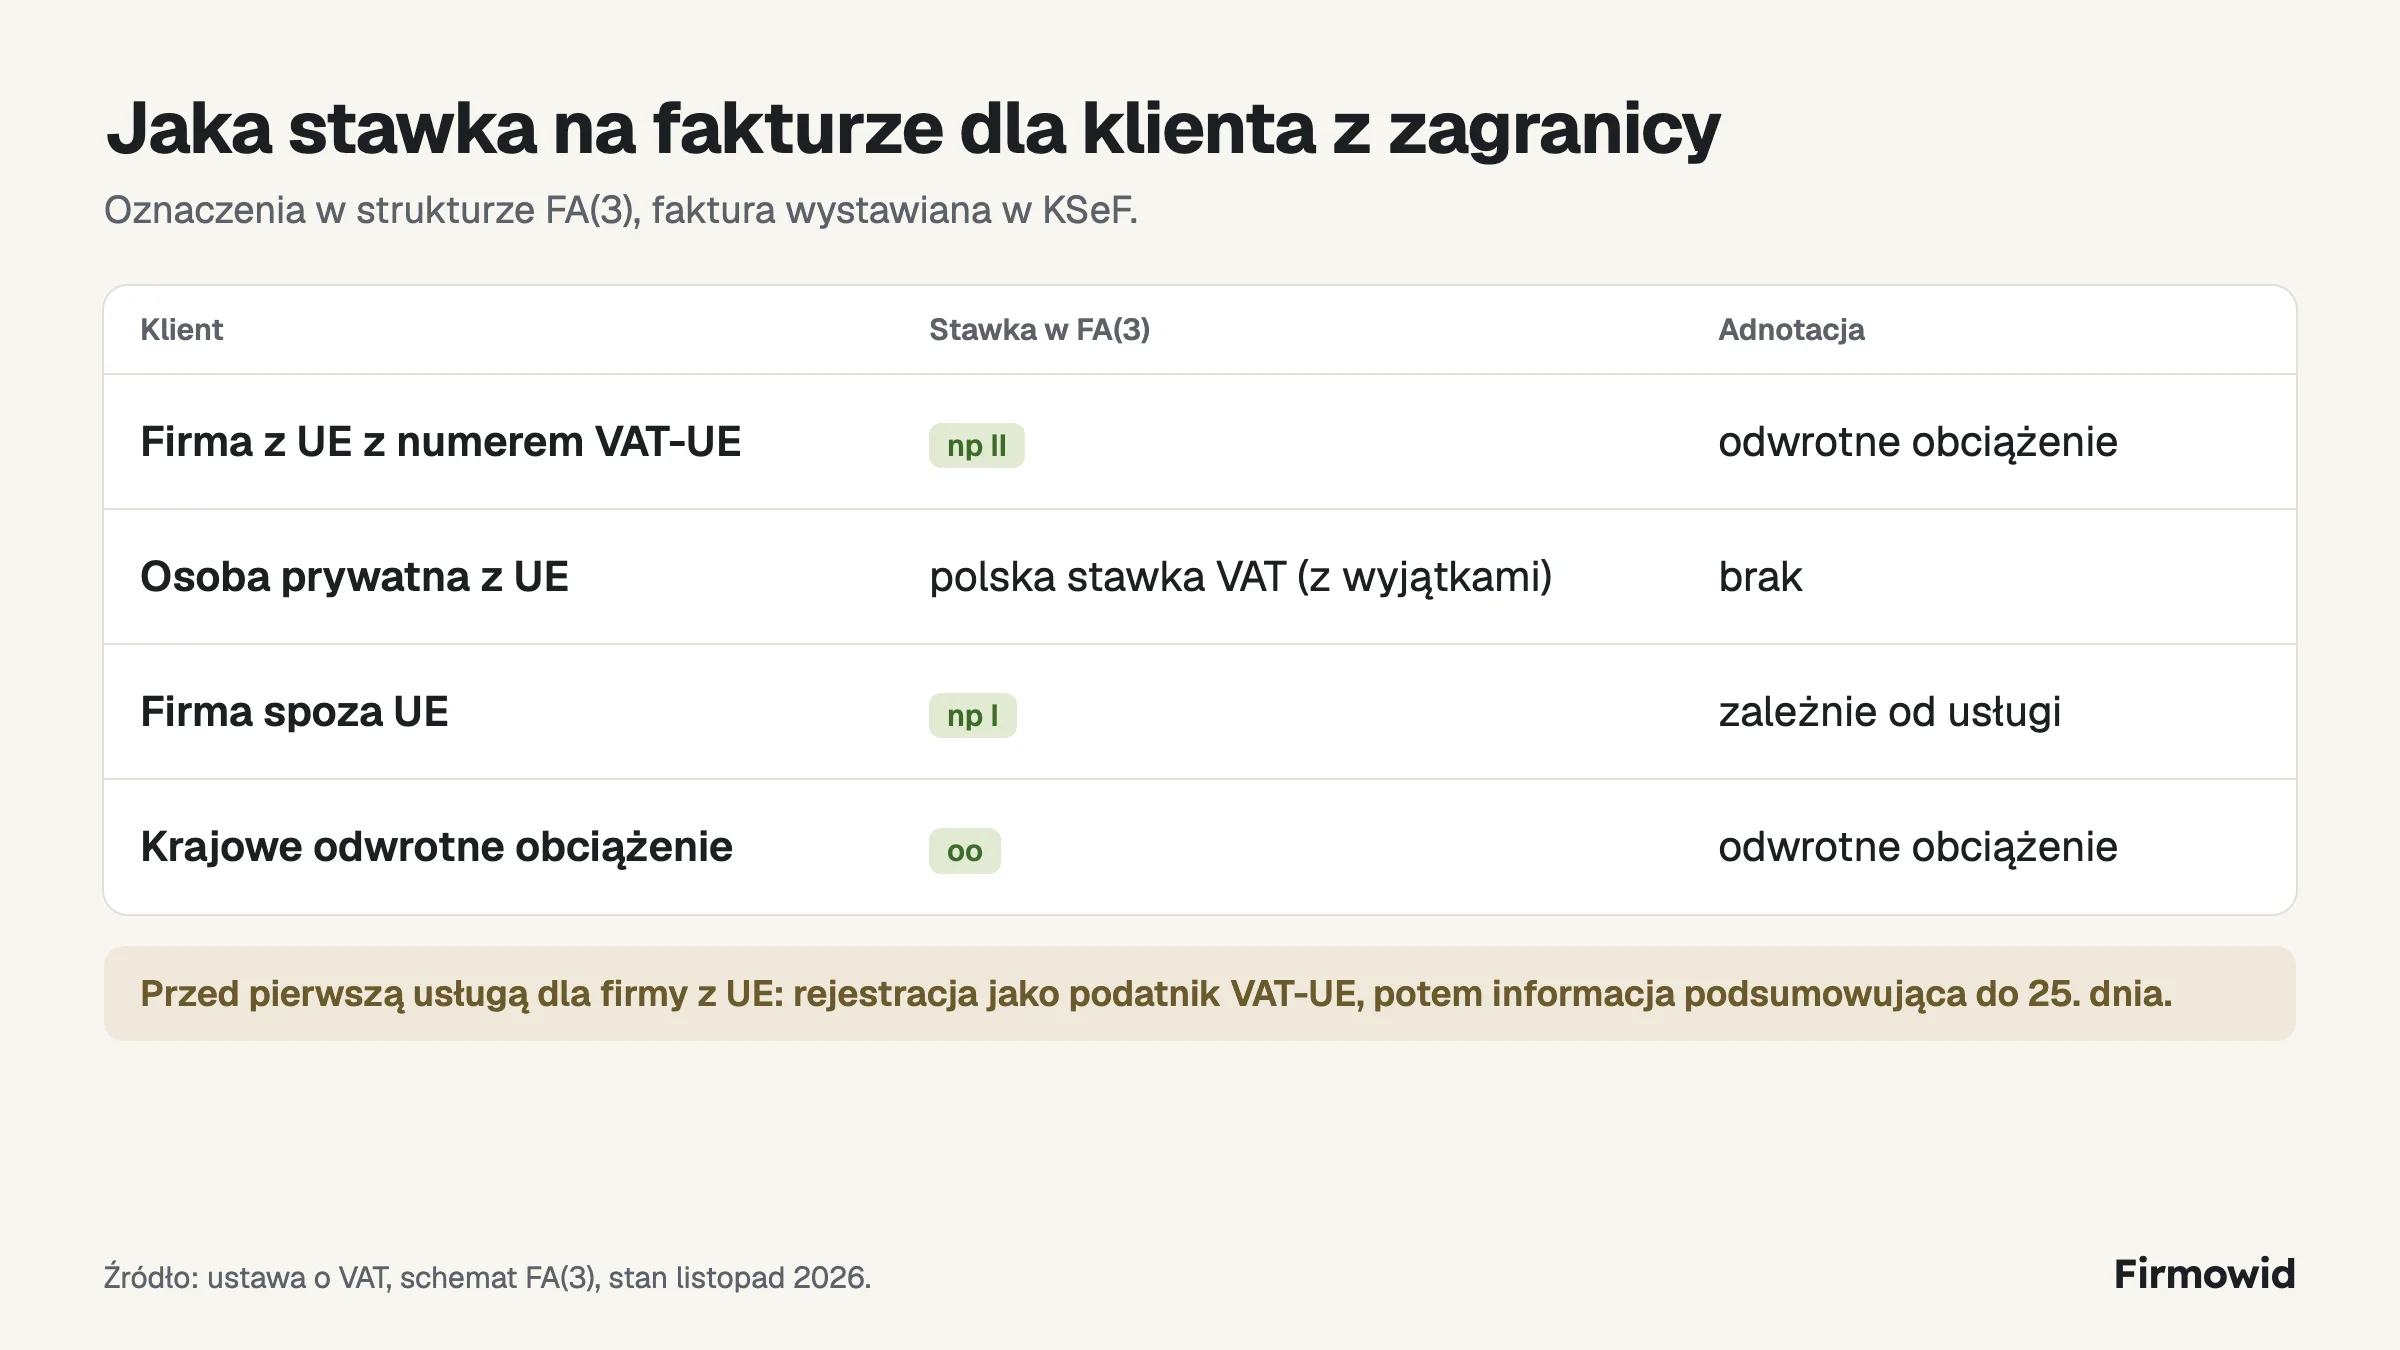
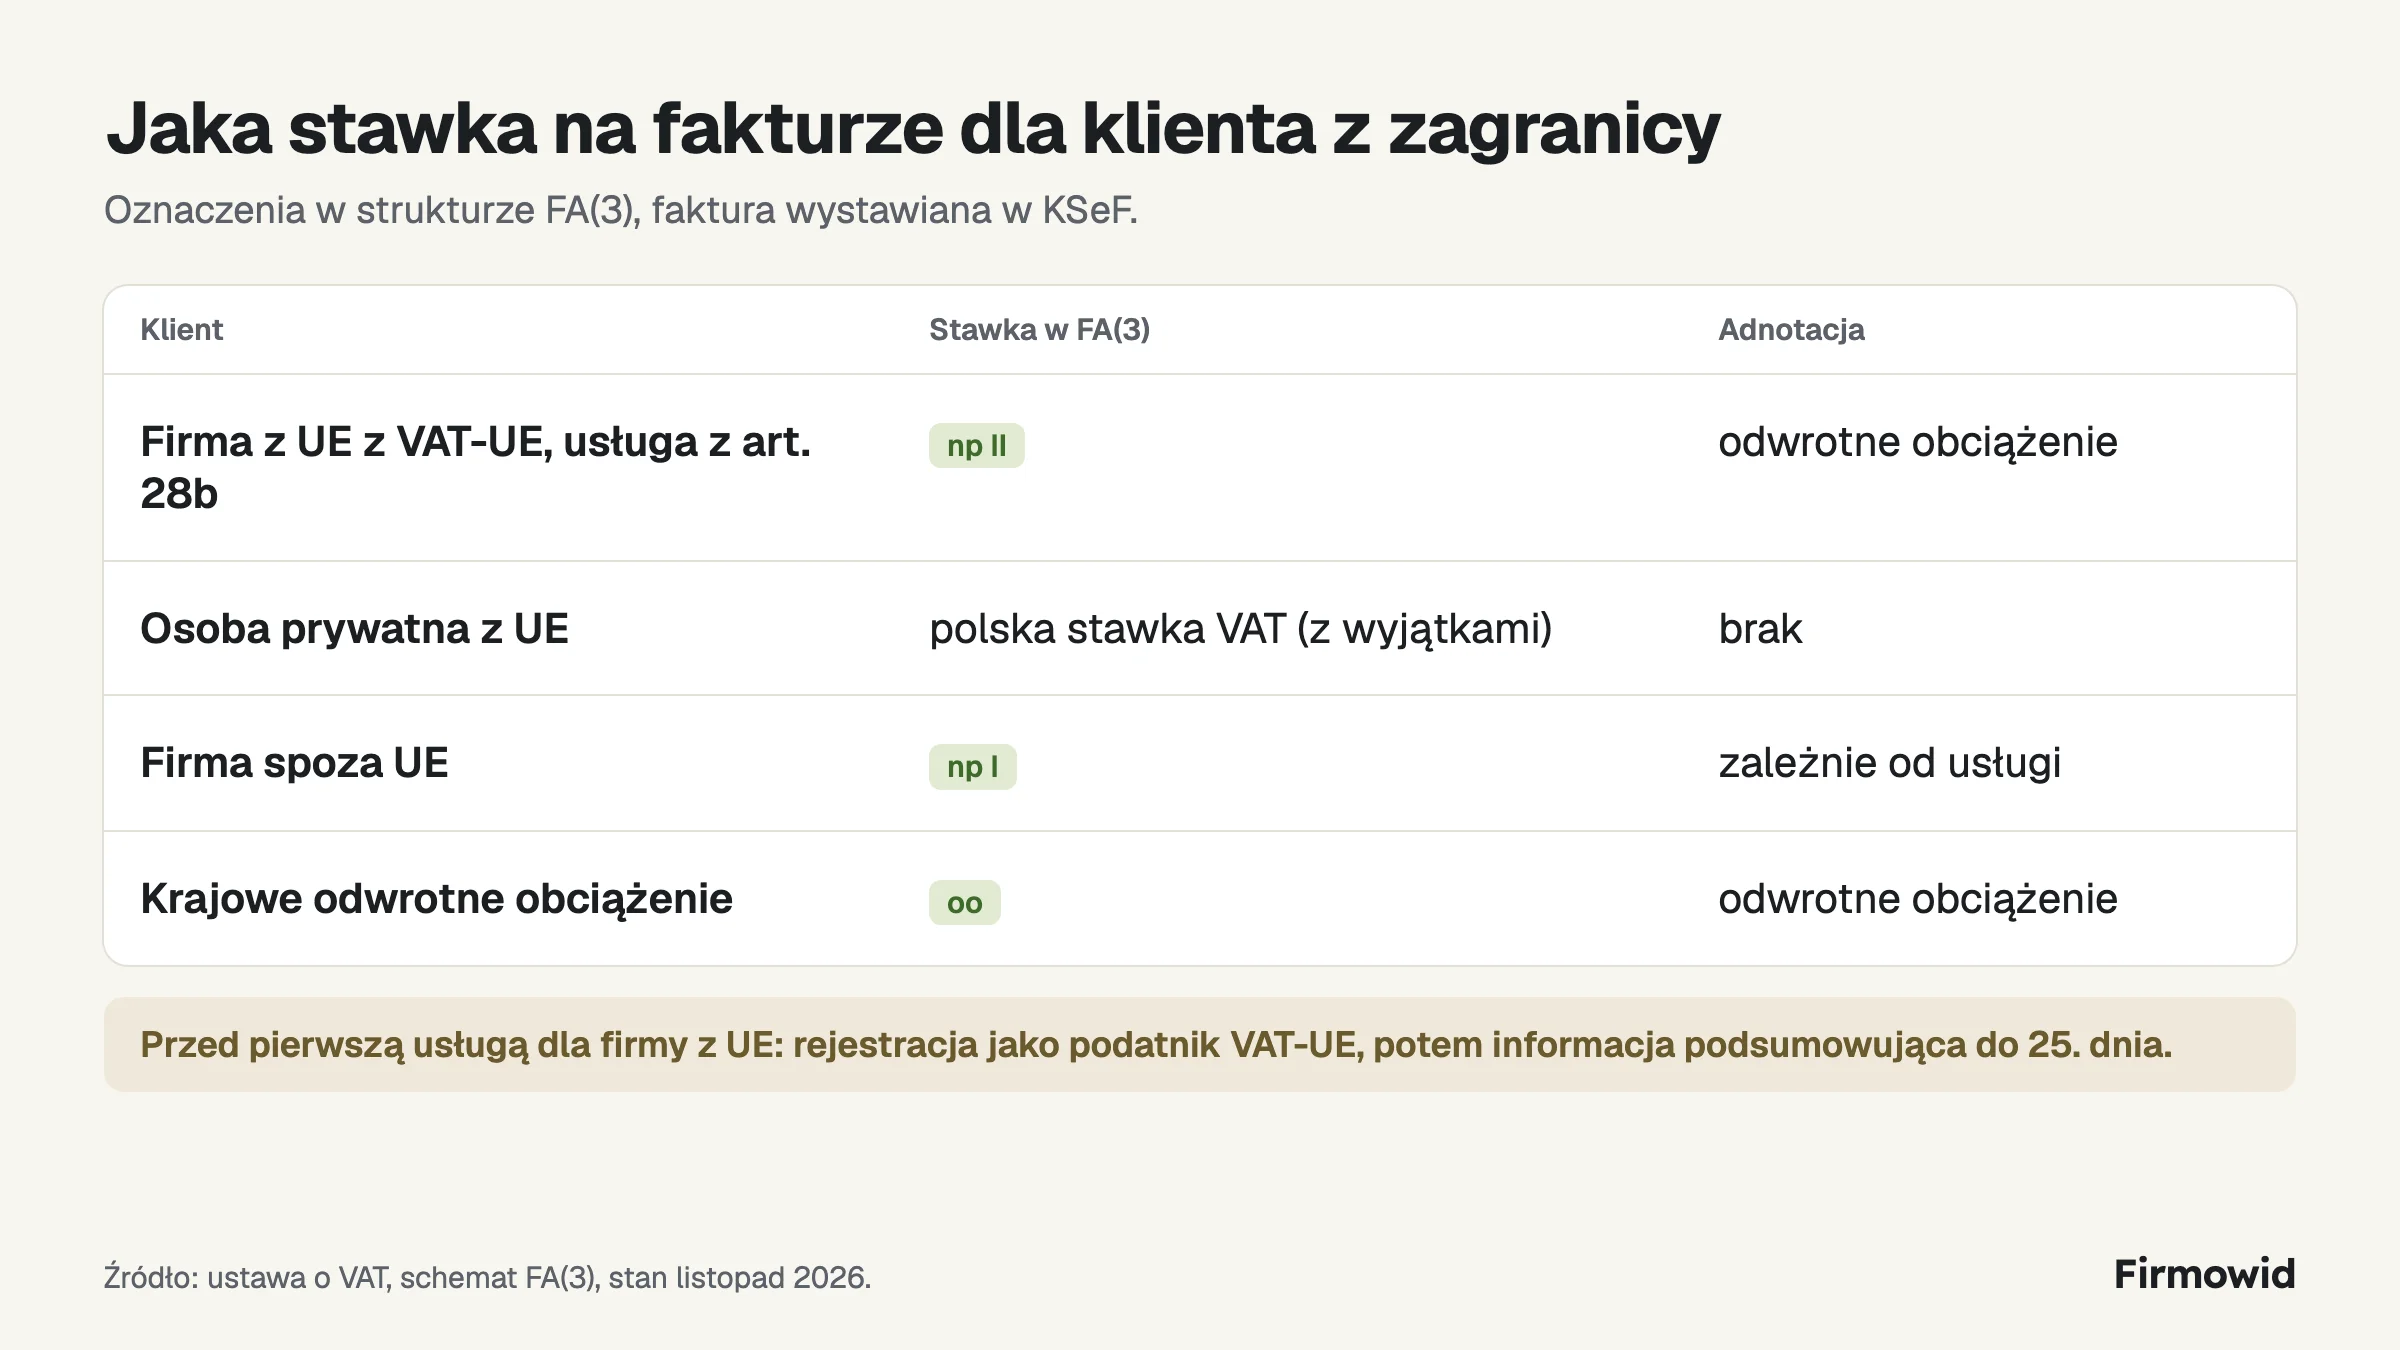
fix(landing): limit np II to art. 28b services in the EU invoice guide
Addresses review feedback on PR #415.

diff --git a/priv/guides/faktura-dla-firmy-z-ue-ksef.md b/priv/guides/faktura-dla-firmy-z-ue-ksef.md
@@ -10,7 +10,7 @@ Na pytanie, czy fakturę dla kontrahenta z Niemiec też trzeba wystawić w KSeF,
 
 | Klient | Stawka w FA(3) | Adnotacja |
 |---|---|---|
-| Firma z UE z numerem VAT-UE | np II | odwrotne obciążenie |
+| Firma z UE z numerem VAT-UE, usługa z art. 28b | np II | odwrotne obciążenie |
 | Osoba prywatna z UE | polska stawka VAT (z wyjątkami, np. usługi elektroniczne) | brak |
 | Firma spoza UE | np I | zależnie od usługi |
 | Krajowe odwrotne obciążenie | oo | odwrotne obciążenie |
@@ -25,9 +25,9 @@ Zgodnie z art. 97 ust. 3 ustawy o VAT przed pierwszą taką usługą, o ile w kr
 
 Fakturę można wystawić w euro, a do ewidencji VAT kwotę przelicza się na złote według art. 31a ustawy, po średnim kursie NBP z ostatniego dnia roboczego przed powstaniem obowiązku podatkowego, a gdy faktura powstała wcześniej, przed dniem jej wystawienia.
 
-W [Firmowidzie](/cennik), naszym programie, stawka np II ustawia się sama, kiedy klient z UE ma numer VAT-UE.
+W [Firmowidzie](/cennik), naszym programie, stawka np II ustawia się sama, kiedy klient z UE ma numer VAT-UE, a przy usłudze z wyjątków warto ją sprawdzić.
 
-![Firma z UE z numerem VAT-UE: stawka np II i adnotacja odwrotne obciążenie. Osoba prywatna z UE: polska stawka VAT. Firma spoza UE: np I. Krajowe odwrotne obciążenie: oo. Przed pierwszą usługą dla firmy z UE trzeba zarejestrować się jako podatnik VAT-UE.](/images/guides/faktura-ue-ksef-stawka-np-ii.webp)
+![Usługa z art. 28b dla firmy z UE z numerem VAT-UE: stawka np II i adnotacja odwrotne obciążenie. Osoba prywatna z UE: polska stawka VAT. Firma spoza UE: np I. Krajowe odwrotne obciążenie: oo. Przed pierwszą usługą dla firmy z UE trzeba zarejestrować się jako podatnik VAT-UE.](/images/guides/faktura-ue-ksef-stawka-np-ii.webp)
 
 ## Źródła
 
